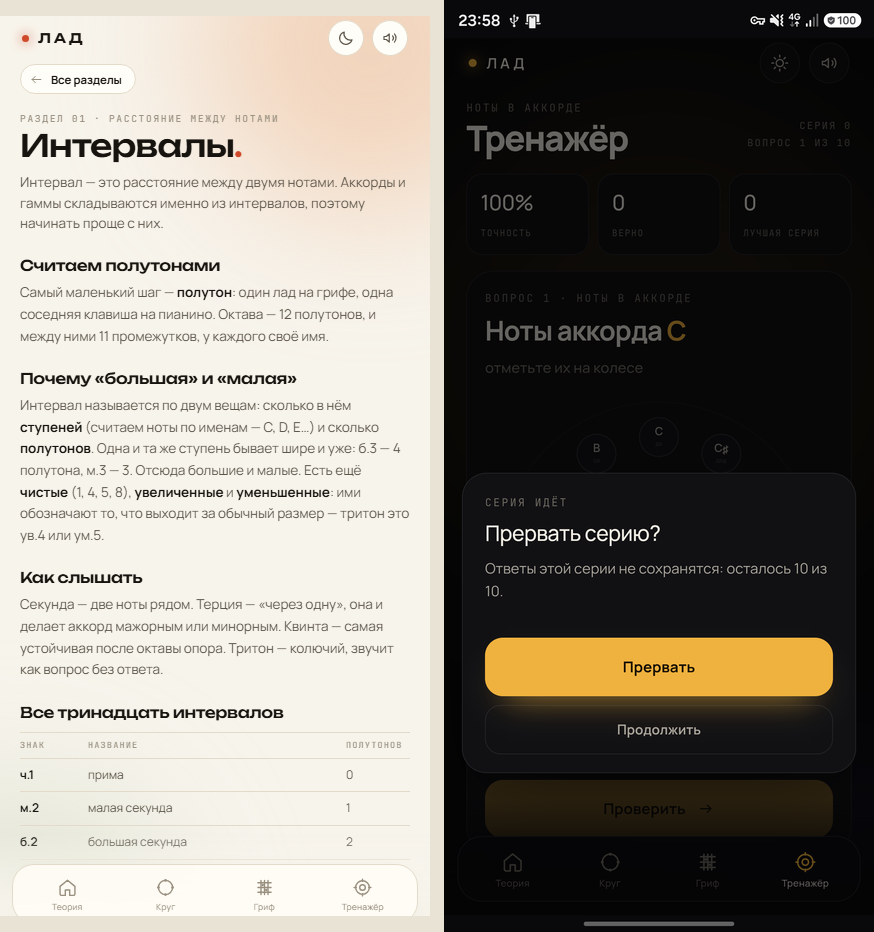
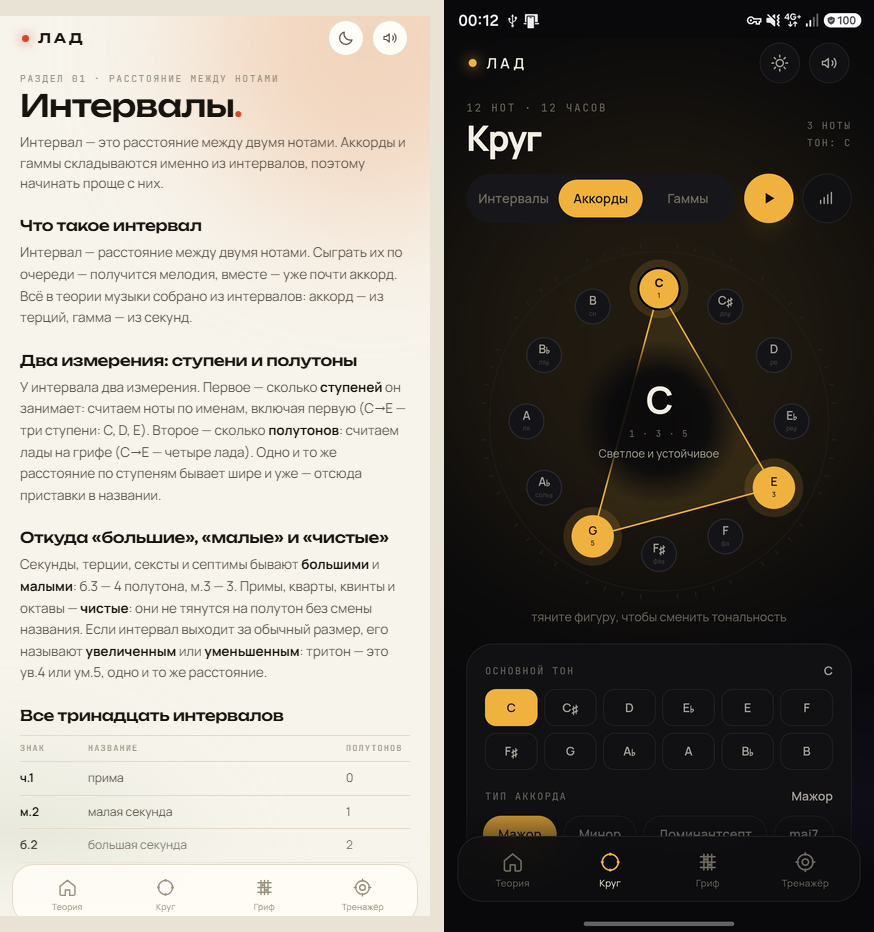
Теория интервалов в логическом порядке; убраны чипы «Все разделы» и «К гамме» — возврат по системной «назад»

diff --git a/assets/app.js b/assets/app.js
@@ -163,7 +163,7 @@
   // Системная «назад» всегда ведёт на главную: из теории, круга, грифа, тренажёра.
   // С главной — подсказка «нажмите ещё раз», второе нажатие закрывает приложение.
   function canGoBack() {
-    return state.confirmTrain || state.tab !== "home" || !!state.topic || train.started;
+    return state.confirmTrain || state.tab !== "home" || !!state.topic || train.started || !!state.returnMode;
   }
 
   function syncBackDepth() {
@@ -179,9 +179,23 @@
     train.finished = false;
     state.confirmTrain = false;
     state.topic = null;
+    state.returnMode = null;
     state.tab = "home";
     render(false);
     syncBackDepth();
+  }
+
+  /** Аккорд из «аккордов в тональности» → назад к той же гамме. */
+  function returnToScale() {
+    const r = state.returnMode;
+    if (!r) return false;
+    state.mode = "scale";
+    state.scale = r.scale;
+    state.root = r.root;
+    state.returnMode = null;
+    render(false);
+    syncBackDepth();
+    return true;
   }
 
   window.ladBack = function () {
@@ -198,6 +212,8 @@
       render(true);
       return true;
     }
+    // пришли в аккорд из «аккордов в тональности» — возвращаемся к той же гамме
+    if (returnToScale()) return true;
     if (state.tab !== "home" || state.topic) {
       goHome();
       return true;
@@ -754,9 +770,9 @@
       kicker: "раздел 01 · расстояние между нотами",
       lead: "Интервал — это расстояние между двумя нотами. Аккорды и гаммы складываются именно из интервалов, поэтому начинать проще с них.",
       blocks: [
-        { h: "Считаем полутонами", p: "Самый маленький шаг — <b>полутон</b>: один лад на грифе, одна соседняя клавиша на пианино. Октава — 12 полутонов, и между ними 11 промежутков, у каждого своё имя." },
-        { h: "Почему «большая» и «малая»", p: "Интервал называется по двум вещам: сколько в нём <b>ступеней</b> (считаем ноты по именам — C, D, E…) и сколько <b>полутонов</b>. Одна и та же ступень бывает шире и уже: б.3 — 4 полутона, м.3 — 3. Отсюда большие и малые. Есть ещё <b>чистые</b> (1, 4, 5, 8), <b>увеличенные</b> и <b>уменьшенные</b>: ими обозначают то, что выходит за обычный размер — тритон это ув.4 или ум.5." },
-        { h: "Как слышать", p: "Секунда — две ноты рядом. Терция — «через одну», она и делает аккорд мажорным или минорным. Квинта — самая устойчивая после октавы опора. Тритон — колючий, звучит как вопрос без ответа." }
+        { h: "Что такое интервал", p: "Интервал — расстояние между двумя нотами. Сыграть их по очереди — получится мелодия, вместе — уже почти аккорд. Всё в теории музыки собрано из интервалов: аккорд — из терций, гамма — из секунд." },
+        { h: "Два измерения: ступени и полутоны", p: "У интервала два измерения. Первое — сколько <b>ступеней</b> он занимает: считаем ноты по именам, включая первую (C→E — три ступени: C, D, E). Второе — сколько <b>полутонов</b>: считаем лады на грифе (C→E — четыре лада). Одно и то же расстояние по ступеням бывает шире и уже — отсюда приставки в названии." },
+        { h: "Откуда «большие», «малые» и «чистые»", p: "Секунды, терции, сексты и септимы бывают <b>большими</b> и <b>малыми</b>: б.3 — 4 полутона, м.3 — 3. Примы, кварты, квинты и октавы — <b>чистые</b>: они не тянутся на полутон без смены названия. Если интервал выходит за обычный размер, его называют <b>увеличенным</b> или <b>уменьшенным</b>: тритон — это ув.4 или ум.5, одно и то же расстояние." }
       ],
       table: {
         title: "Все тринадцать интервалов",
@@ -778,9 +794,13 @@
           ["ч.8", "октава", "12"]
         ]
       },
+      after: [
+        { h: "Как слышать", p: "Секунда — две ноты рядом, звучит как шаг. Терция — «через одну»: она и делает аккорд мажорным или минорным. Кварта и квинта — опора и пустота, на них держатся аккорды. Секста и септима — краска, из них получаются септаккорды. Тритон — колючий, звучит как вопрос без ответа." },
+        { h: "Где это на грифе", p: "Полутон — один лад. Кварта — та же нота на соседней струне через пять ладов, кроме перехода G→B: там четыре. Октава — плюс две струны и два лада, а от 3-й струны к 1-й — плюс три лада." }
+      ],
       tips: [
-        "Октава на грифе: +2 струны и +2 лада (с 6-й на 4-ю, с 5-й на 3-ю), +2 струны и +3 лада для 4→2 и 3→1.",
-        "Квинта — та же нота на соседней струне через 5 ладов, кроме перехода G→B: там 4."
+        "Терция решает всё: сыграйте C–E, потом C–E♭ — настроение меняется одной нотой.",
+        "Квинта «пустая» и устойчивая — поэтому квинт-аккорды на перегрузе звучат так мощно."
       ],
       cta: { label: "Показать на круге", act: "open-circle", mode: "interval" }
     },
@@ -875,7 +895,6 @@
     const t = THEORY[id];
     if (!t) return homeScreen();
     return `
-      <button class="back-chip" data-act="theory-back">${ICON.back}Все разделы</button>
       <div class="shead">
         <div>
           <div class="kicker">${t.kicker}</div>
@@ -900,6 +919,7 @@
             ${t.table.rows.map((r) => `
               <div class="dtable-row" style="grid-template-columns:${t.table.w}">${r.map((c) => `<span>${c}</span>`).join("")}</div>`).join("")}
           </div>` : ""}
+        ${(t.after || []).map((b) => `<h2>${b.h}</h2><p>${b.p}</p>`).join("")}
         ${t.tips.map((tip) => `<div class="tip"><div class="k">лайфхак</div><p>${tip}</p></div>`).join("")}
       </div>
       <button class="btn-primary wide" data-act="${t.cta.act}" data-mode="${t.cta.mode}">${t.cta.label}</button>
@@ -1003,10 +1023,6 @@
         <button data-act="mode" data-mode="scale" class="${state.mode === "scale" ? "on" : ""}">Гаммы</button>
       </div>`;
 
-    const back = state.returnMode
-      ? `<button class="back-chip" data-act="back">${ICON.back}<span>К гамме ${ROOT_NAMES[state.returnMode.root]} ${SCALES[state.returnMode.scale].label.toLowerCase()}</span></button>`
-      : "";
-
     return `
       <div class="shead">
         <div>
@@ -1020,7 +1036,6 @@
         <button class="round-btn" data-act="play" aria-label="Слушать" title="Слушать">${ICON.play}</button>
         <button class="round-btn ${state.arp ? "on" : ""}" data-act="arp" aria-label="Арпеджио по нотам" title="Арпеджио">${ICON.arp}</button>
       </div>
-      ${back}
       <div class="wheel-wrap" id="wheelWrap">
         ${wheelHTML()}
         <div class="wheel-center">${wheelCenterHTML()}</div>
@@ -1887,13 +1902,6 @@
         render(false);
         break;
 
-      case "theory-back":
-        if (!window.ladBack()) {
-          state.topic = null;
-          render(false);
-        }
-        break;
-
       case "open-circle":
         pushNav();
         state.mode = el.dataset.mode || state.mode;
@@ -2002,17 +2010,6 @@
         state.inv = 0;
         render(false);
         if (state.sound) playCurrent();
-        break;
-      }
-
-      case "back": {
-        const r = state.returnMode;
-        if (!r) break;
-        state.mode = "scale";
-        state.scale = r.scale;
-        state.root = r.root;
-        state.returnMode = null;
-        render(false);
         break;
       }
 
